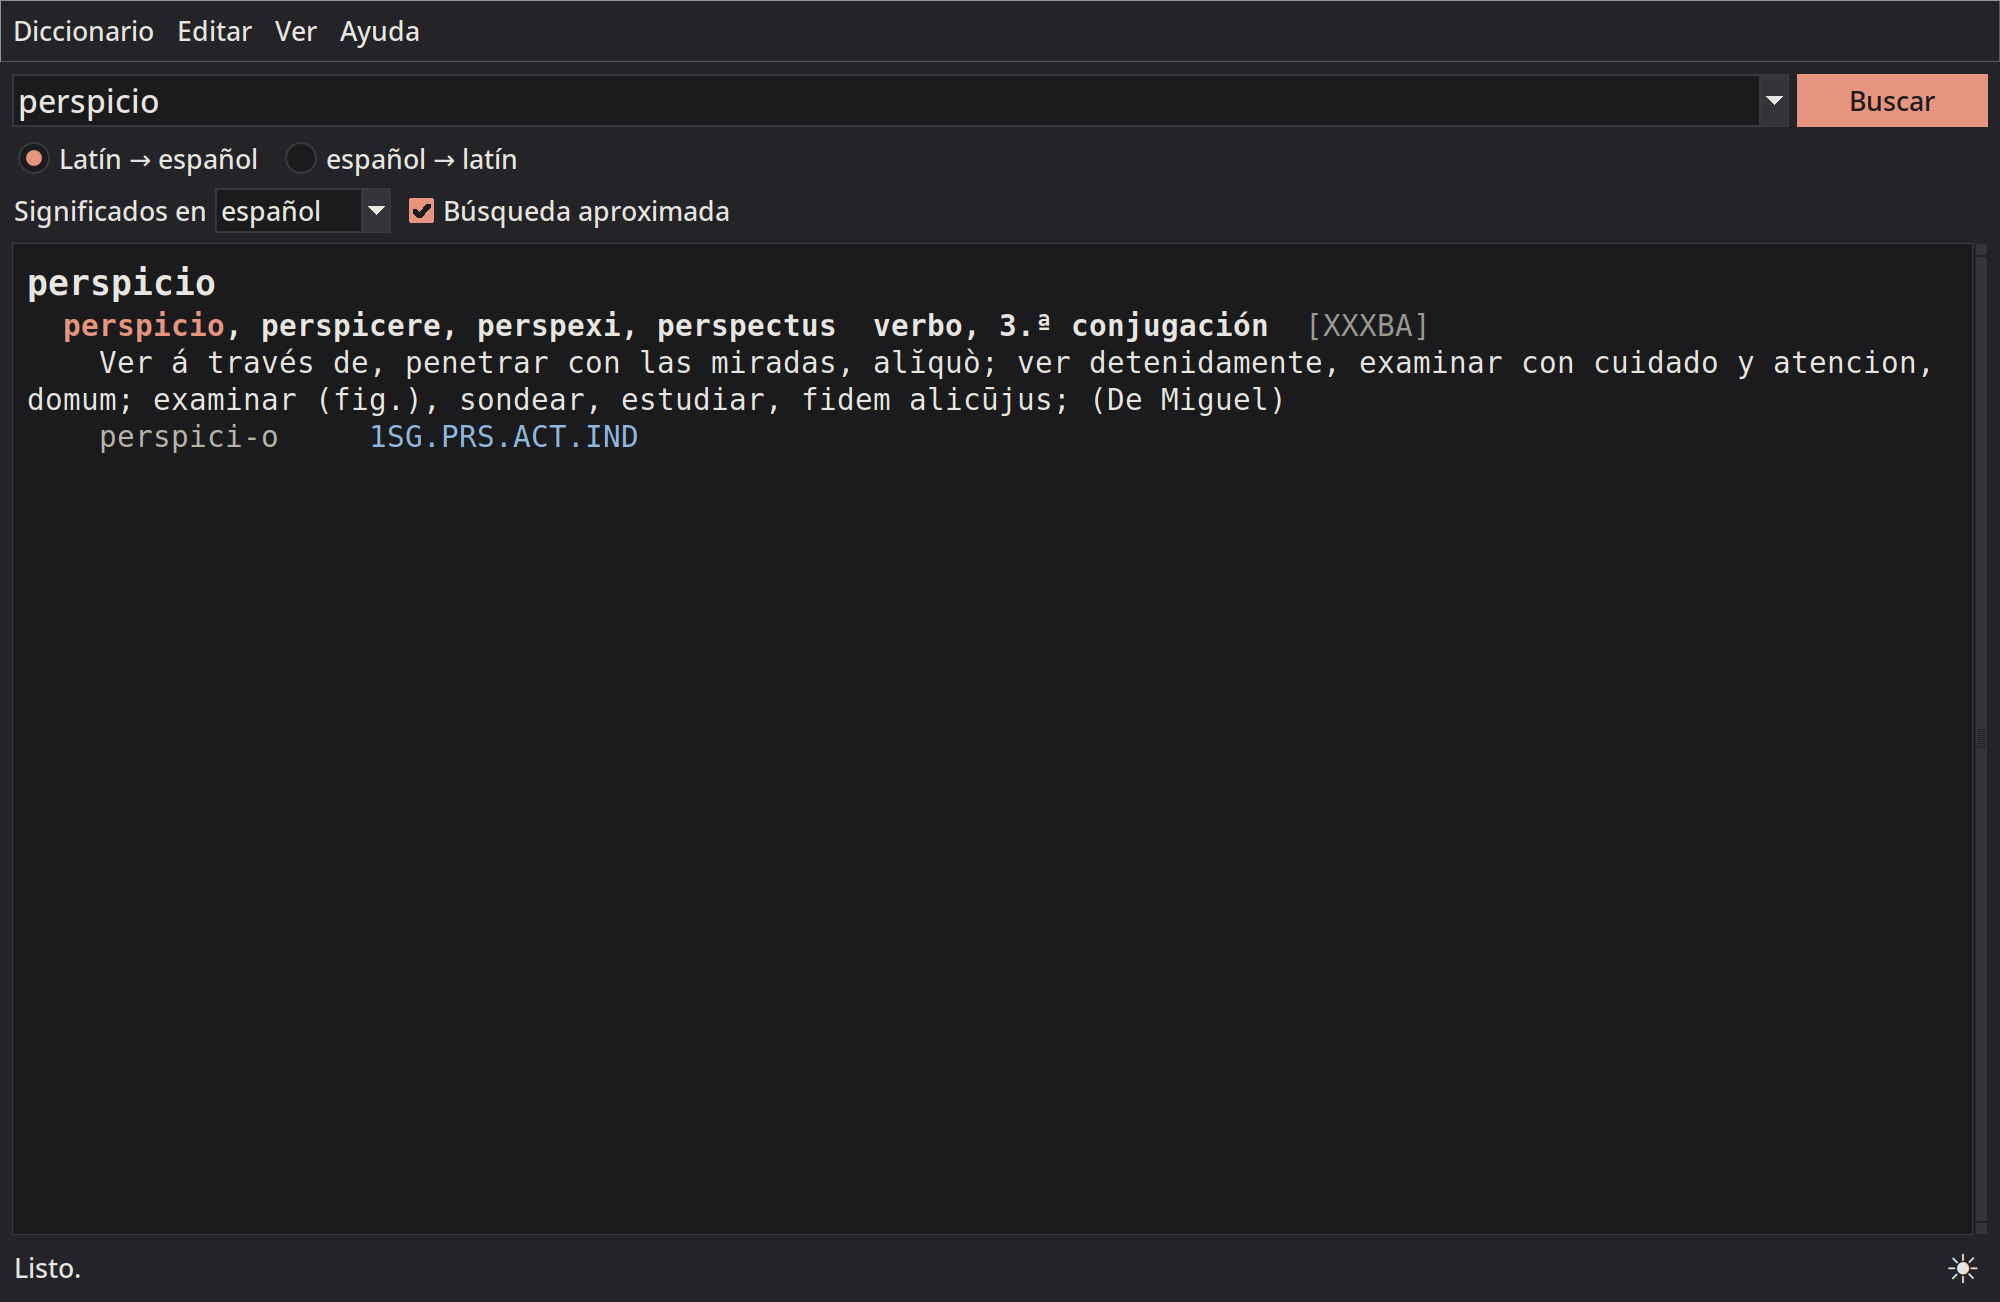
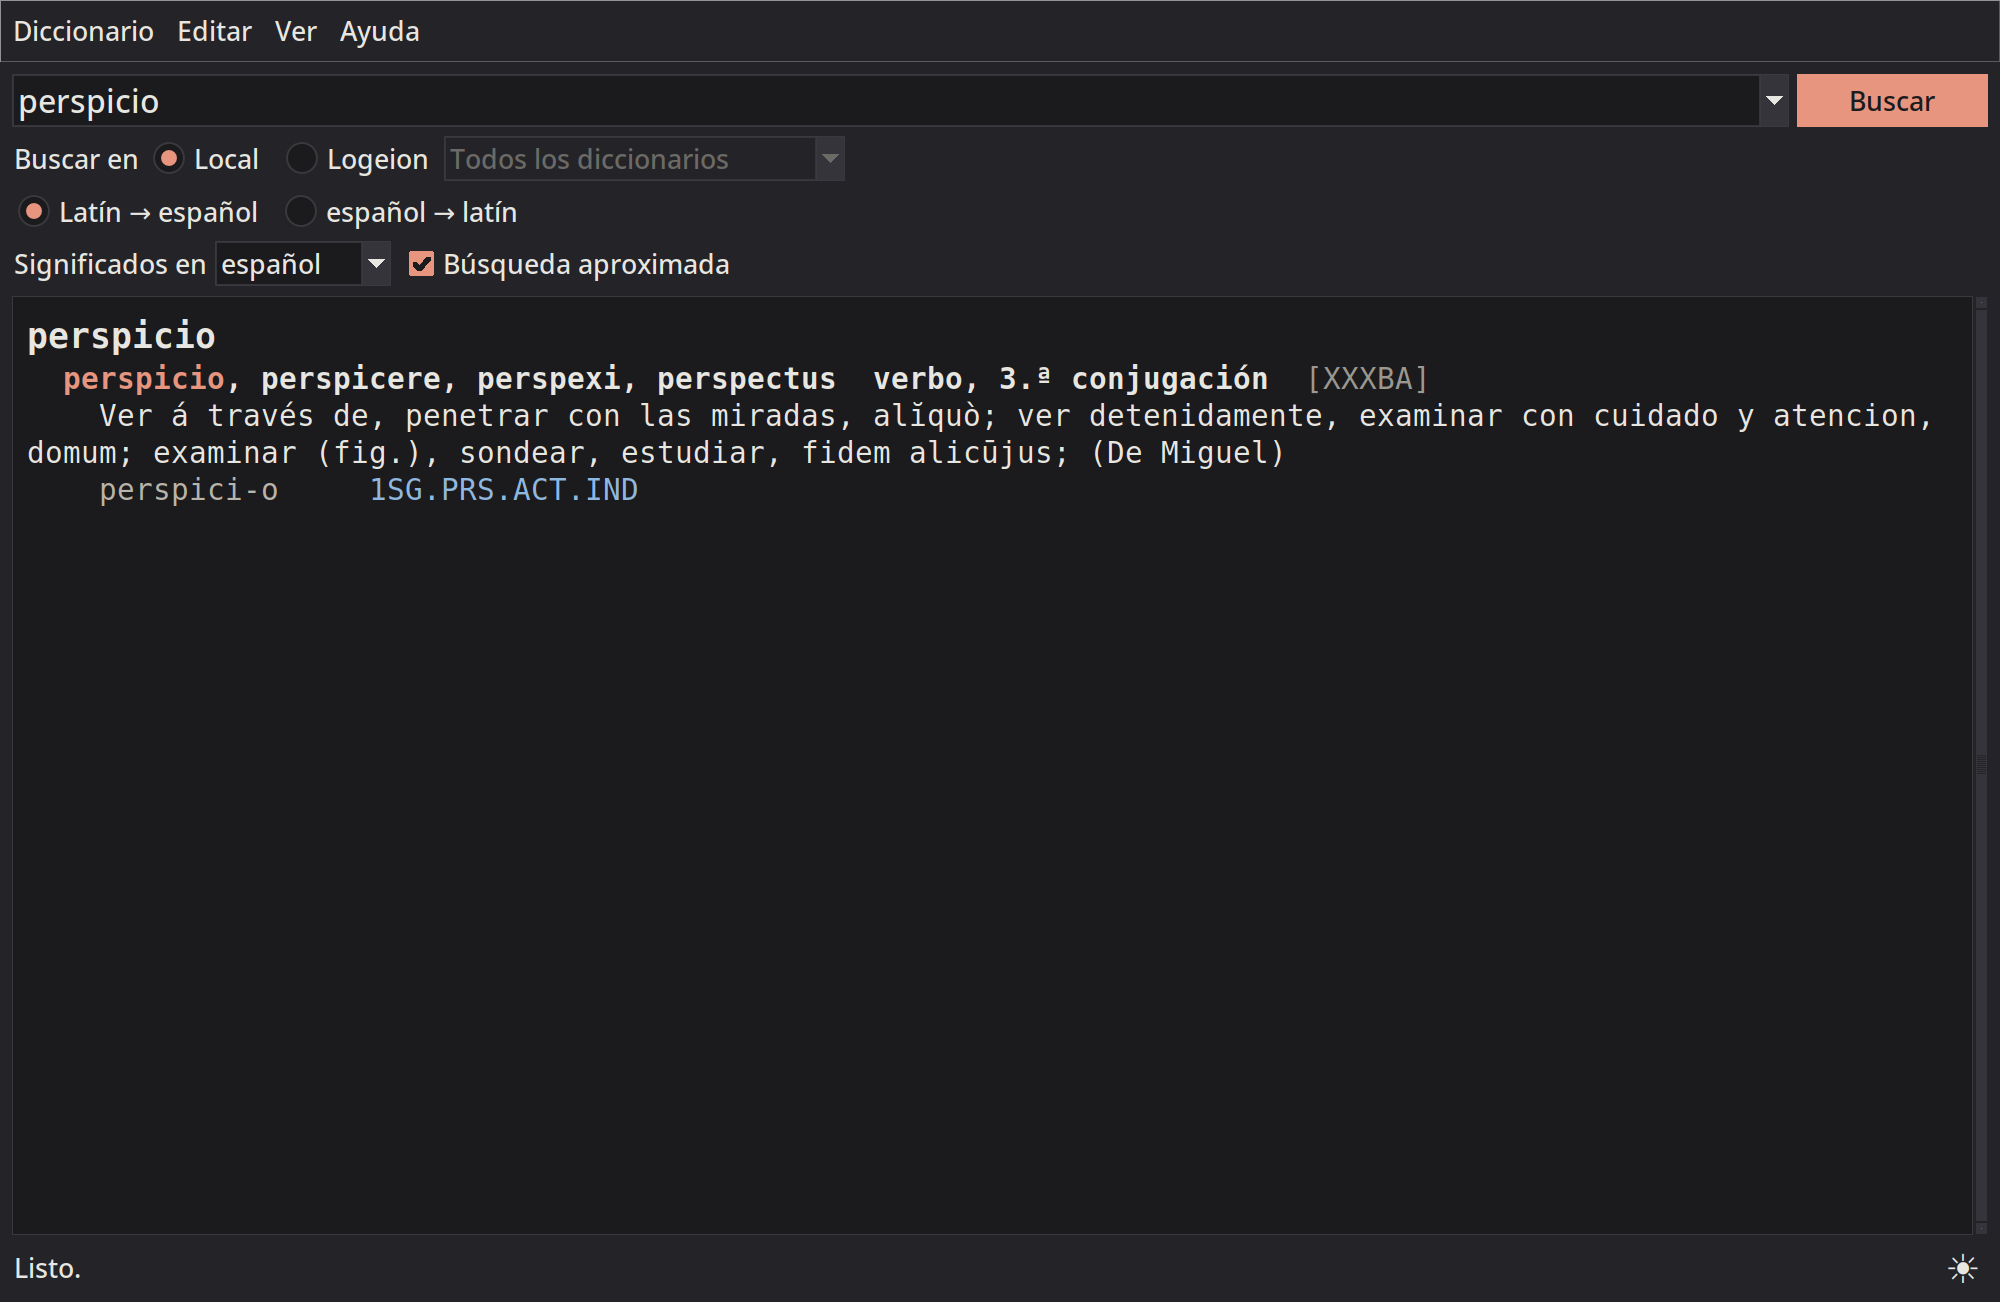
v3.17: Logeion as a second source (Search in, F8, --logeion), with a choice of its dictionary (F5, --dictionary); no Flatpak and no version in the browser any more; the tests of the windows on an Xvfb of their own

Changed region(s): [[0.0, 0.0922, 0.961, 0.3994]]

diff --git a/version.py b/version.py
@@ -14,7 +14,7 @@ NAME = 'py-words'
 #  README, el título de docs/DESCRIPCIÓN_es.md, las notas de
 #  "Version"/"Versiones", y Version: y %changelog de
 #  packaging/py-words.spec (rpmdev-bumpspec).
-VERSION = '3.16'
+VERSION = '3.17'
 URL = 'https://github.com/nivaca/py-words'
 
 HERE = os.path.dirname(os.path.abspath(__file__))

diff --git a/tools/bundle-appimage.py b/tools/bundle-appimage.py
@@ -172,7 +172,7 @@ exec "$APPDIR/%(python)s" "$PROGRAM/$script" "$@"
 
 
 def name() -> str:
-    """The name of the AppImage: py-words-v.3.16-x86_64.AppImage."""
+    """The name of the AppImage: py-words-v.3.17-x86_64.AppImage."""
     return f'py-words-v.{VERSION}-{ARCH}.AppImage'
 
 

diff --git a/README_es.md b/README_es.md
@@ -108,10 +108,10 @@ Python (con Tk), así que no hace falta nada más.  Descargue
 [Releases](https://github.com/nivaca/py-words/releases) de GitHub,
 hágala ejecutable y ejecútela:
 
-    $ chmod +x py-words-v.3.16-x86_64.AppImage
-    $ ./py-words-v.3.16-x86_64.AppImage                # la ventana
-    $ ./py-words-v.3.16-x86_64.AppImage cli amicus     # la línea de órdenes
-    $ ./py-words-v.3.16-x86_64.AppImage help           # los demás programas
+    $ chmod +x py-words-v.3.17-x86_64.AppImage
+    $ ./py-words-v.3.17-x86_64.AppImage                # la ventana
+    $ ./py-words-v.3.17-x86_64.AppImage cli amicus     # la línea de órdenes
+    $ ./py-words-v.3.17-x86_64.AppImage help           # los demás programas
 
 El primer argumento elige el programa: `gui` (por omisión), `cli`,
 `tui`, `web`, `edit`, `edit-gui`, `check` o `convert`; los argumentos
@@ -143,7 +143,7 @@ O descargue `py-words-VERSIÓN-1.fc45.noarch.rpm` y
 paquete va firmado; importe su clave una vez) e instálelo:
 
     $ sudo rpm --import RPM-GPG-KEY-py-words
-    $ sudo dnf install ./py-words-3.16-1.fc45.noarch.rpm
+    $ sudo dnf install ./py-words-3.17-1.fc45.noarch.rpm
 
 Funciona en cualquier Fedora con Python 3.11 o posterior, sea cual sea
 el número `fc` de su nombre.  O hágalo desde la carpeta del programa (un
@@ -253,7 +253,7 @@ Para llevarlo a otro sitio, copie la carpeta o haga un zip del programa:
 
     $ python3 tools/bundle-zip.py [-o CARPETA] [--tests]
 
-Eso escribe `dist/py-words-v.3.16.zip` (con la versión del programa; `-o`
+Eso escribe `dist/py-words-v.3.17.zip` (con la versión del programa; `-o`
 da otra carpeta), con el programa dentro de una carpeta del mismo
 nombre.  Lleva los programas,
 los datos, los iconos y los documentos, y un archivo `COMMIT` con el
@@ -268,7 +268,7 @@ En Linux, la AppImage (vea "Una AppImage") se hace con
     $ python3 tools/bundle-appimage.py [-o CARPETA] [--python APPIMAGE]
           [--python-version VERSIÓN] [--appimagetool APPIMAGE]
 
-Eso escribe `dist/py-words-v.3.16-x86_64.AppImage` (`-o` da otra
+Eso escribe `dist/py-words-v.3.17-x86_64.AppImage` (`-o` da otra
 carpeta), con los mismos archivos que el zip (menos `words_install.py`), un Python propio y la entrada del
 menú y los iconos.  El Python (Python
 3.13 con Tk, de [python-appimage](https://github.com/niess/python-appimage))
@@ -1377,6 +1377,22 @@ verlas.
 Versiones
 ---------
 
+- 3.17:
+  - Logeion como segunda fuente (véase "Logeion"): la ventana ("Buscar
+    en": Local o Logeion), `words_tui.py` (F8) y la línea de órdenes
+    (`--logeion`) pueden mostrar, en lugar de las entradas de este
+    diccionario, las de Logeion para los lemas de las palabras, que se
+    analizan aquí primero (Logeion no analiza las formas flexionadas).
+    Una lista junto a "Buscar en" (F5 en la terminal, `--dictionary` en
+    la línea de órdenes) muestra solo uno de sus diccionarios, o todos.
+    Mientras tanto, la otra dirección, el idioma de los significados, la
+    búsqueda aproximada y el editor del diccionario quedan en gris.
+  - Ya no se hace el Flatpak, y la versión que funcionaba en el
+    navegador ya no existe, ni su código (`pages/index.html`,
+    `pages/app.js`, `pages/build.py --browser`).
+  - Las pruebas de las ventanas se ejecutan en una pantalla virtual
+    propia (Xvfb), sin `xvfb-run` y fuera de la vista.
+  - Las listas de `words_tui.py` (F5, F6) muestran su título entero.
 - 3.16:
   - El texto seleccionado en los resultados de la ventana se puede leer:
     se dibujaba con los colores de los resultados (un lema, en el modo

diff --git a/README.md b/README.md
@@ -105,10 +105,10 @@ Python (with Tk), so that nothing else is needed.  Download
 [Releases](https://github.com/nivaca/py-words/releases) of GitHub, make
 it executable and run it:
 
-    $ chmod +x py-words-v.3.16-x86_64.AppImage
-    $ ./py-words-v.3.16-x86_64.AppImage                # the window
-    $ ./py-words-v.3.16-x86_64.AppImage cli amicus     # the command line
-    $ ./py-words-v.3.16-x86_64.AppImage help           # the other programs
+    $ chmod +x py-words-v.3.17-x86_64.AppImage
+    $ ./py-words-v.3.17-x86_64.AppImage                # the window
+    $ ./py-words-v.3.17-x86_64.AppImage cli amicus     # the command line
+    $ ./py-words-v.3.17-x86_64.AppImage help           # the other programs
 
 The first argument chooses the program: `gui` (the default), `cli`,
 `tui`, `web`, `edit`, `edit-gui`, `check` or `convert`; the arguments
@@ -138,7 +138,7 @@ Or download `py-words-VERSION-1.fc45.noarch.rpm` and
 package is signed; import its key once) and install it:
 
     $ sudo rpm --import RPM-GPG-KEY-py-words
-    $ sudo dnf install ./py-words-3.16-1.fc45.noarch.rpm
+    $ sudo dnf install ./py-words-3.17-1.fc45.noarch.rpm
 
 It runs on any Fedora with Python 3.11 or later, whatever the `fc`
 number in its name.  Or build it from the program's folder (a git
@@ -245,7 +245,7 @@ for distributing it:
 
     $ python3 tools/bundle-zip.py [-o FOLDER] [--tests]
 
-This writes `dist/py-words-v.3.16.zip` (with the version of the program;
+This writes `dist/py-words-v.3.17.zip` (with the version of the program;
 `-o` gives another folder), with the program inside a folder of the
 same name.  It contains the programs,
 the data, the icons and the documents, and a file `COMMIT` with the
@@ -261,7 +261,7 @@ In Linux, the AppImage (see "An AppImage") is made with
     $ python3 tools/bundle-appimage.py [-o FOLDER] [--python APPIMAGE]
           [--python-version VERSION] [--appimagetool APPIMAGE]
 
-It writes `dist/py-words-v.3.16-x86_64.AppImage` (`-o` gives another
+It writes `dist/py-words-v.3.17-x86_64.AppImage` (`-o` gives another
 folder), with the same files as the zip (but not `words_install.py`), a Python of its own and the menu entry and icons.  The Python (Python 3.13 with Tk, from
 [python-appimage](https://github.com/niess/python-appimage)) and
 [appimagetool](https://github.com/AppImage/appimagetool) are downloaded
@@ -1339,6 +1339,22 @@ them.
 Version
 -------
 
+- 3.17:
+  - Logeion as a second source (see "Logeion"): the window ("Search in":
+    Local or Logeion), `words_tui.py` (F8) and the command line
+    (`--logeion`) can show, instead of this dictionary's entries, those
+    of Logeion for the lemmas of the words, which are analysed here
+    first (Logeion does not analyse inflected forms).  A list beside
+    "Search in" (F5 in the terminal, `--dictionary` on the command line)
+    shows only one of its dictionaries, or all.  Meanwhile the other
+    direction, the language of the meanings, the fuzzy search and the
+    dictionary editor are greyed out.
+  - The Flatpak is no longer made, and the version that ran in the
+    browser is gone, with its code (`pages/index.html`, `pages/app.js`,
+    `pages/build.py --browser`).
+  - The tests of the windows run on a virtual display of their own
+    (Xvfb), without `xvfb-run` and out of sight.
+  - The lists of `words_tui.py` (F5, F6) show their whole title.
 - 3.16:
   - Selected text in the results of the window is readable: it was
     drawn in the colours of the results (a headword, in light mode, in

diff --git a/docs/DESCRIPCIÓN_es.md b/docs/DESCRIPCIÓN_es.md
@@ -1,4 +1,4 @@
-# py-words 3.16: descripción
+# py-words 3.17: descripción
 
 ## Análisis
 
